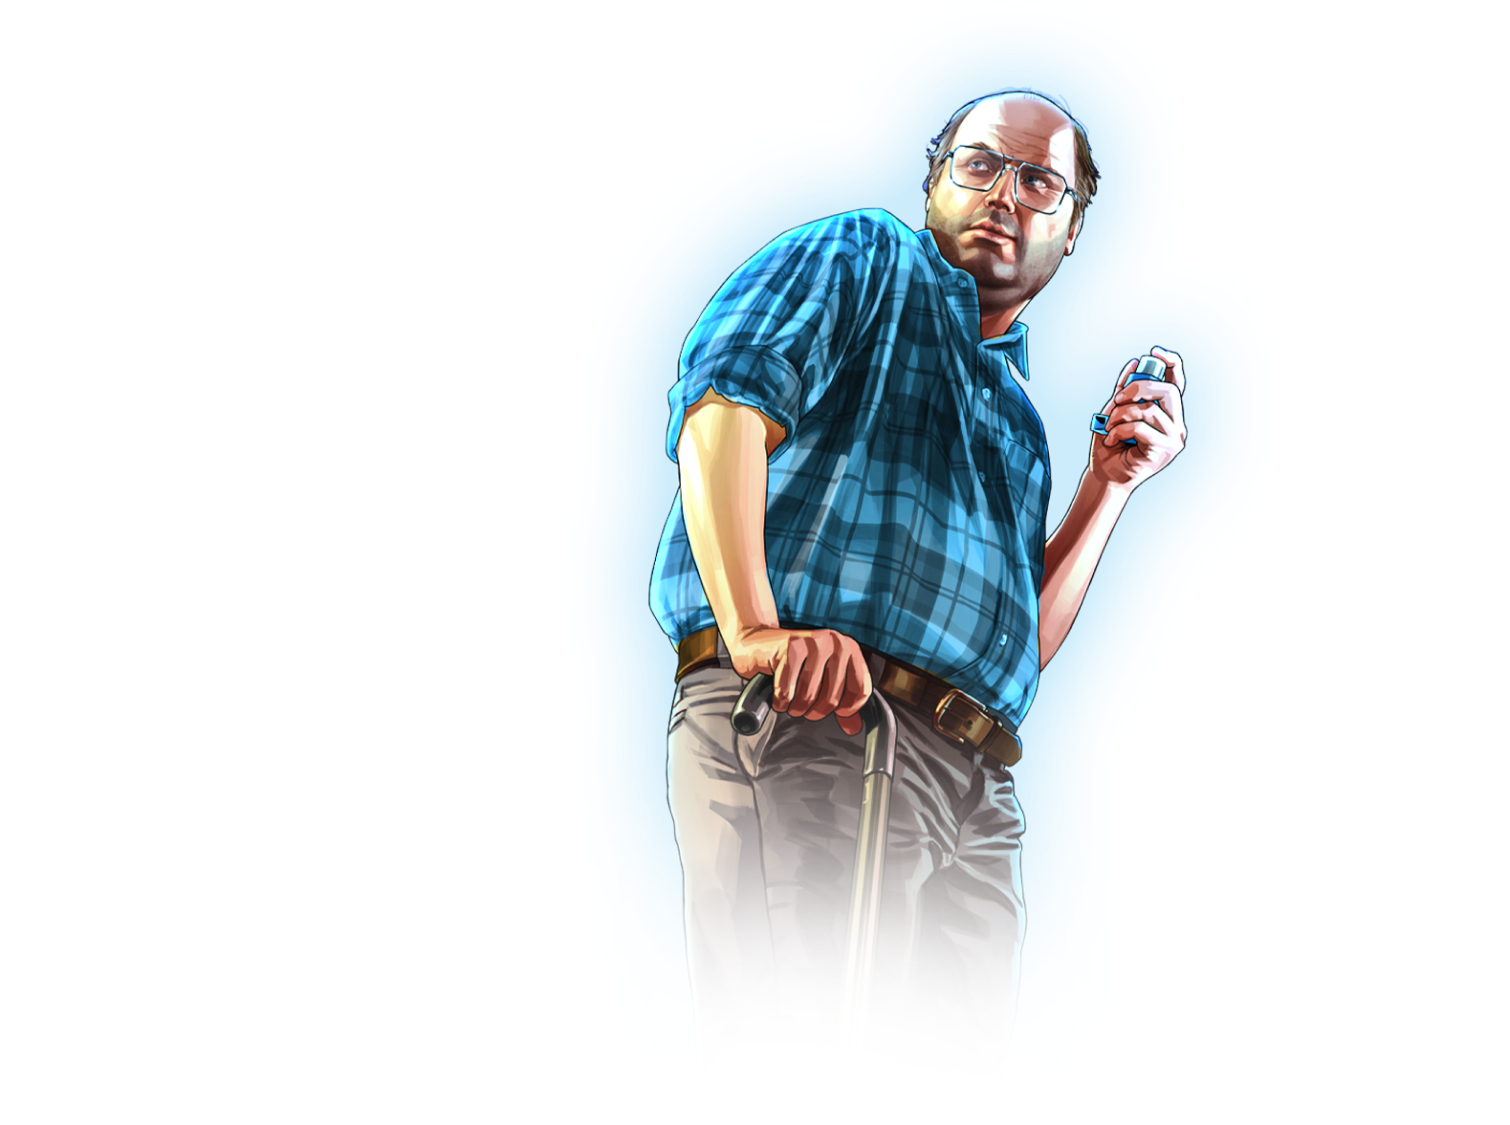
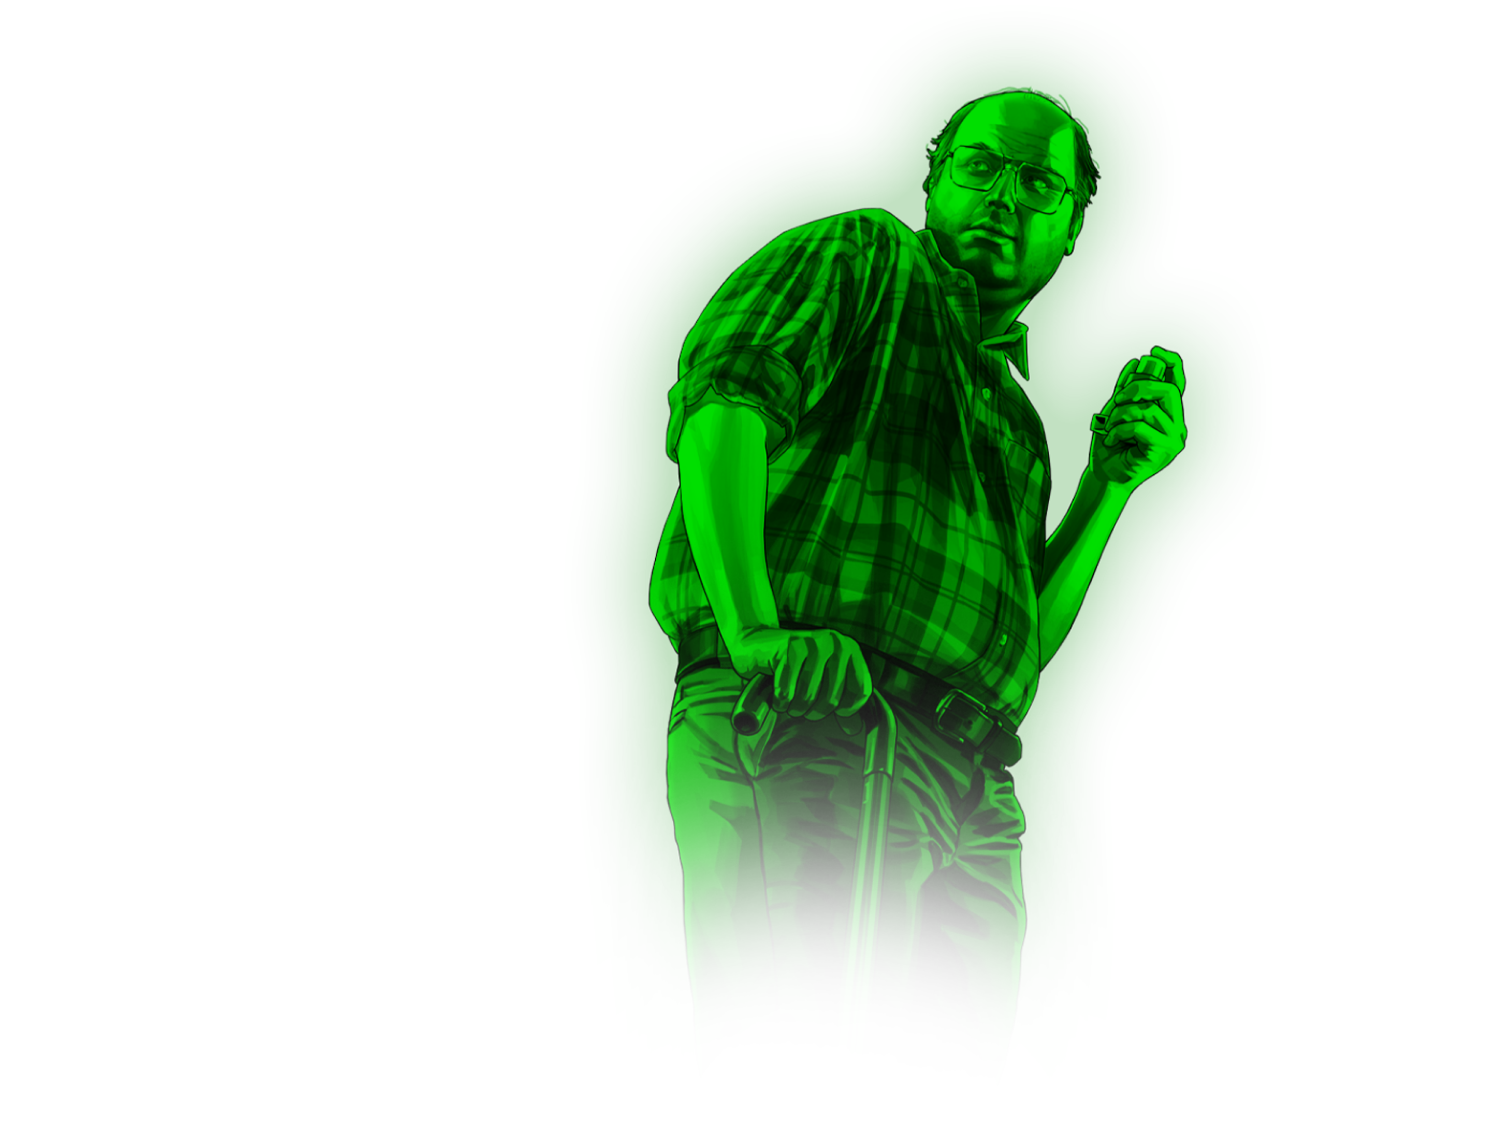
gagagaga

Changed region(s): [[0.4046, 0.0622, 0.8093, 0.8711]]

diff --git a/style.css b/style.css
@@ -37,36 +37,23 @@ body {
     font-size: 1.0416666666666667vw;
     line-height: 1.25vw;
     color: #FFFFFF;
-    left: 25%;
+    left: 29%;
     top: 7%;
     text-decoration: none;
 }
 
 #home:hover {
-    color: #0084ff;
+    color: #2cd71a;
 }
 
 #homestrich {
     position: absolute;
     width: 2.3681377825618943vh;
     height: 0.10416666666666667vw;
-    background: #0084FF;
-    box-shadow: 0wv 0wv 0.15625vw #6DB9FF;
+    background: #2cd71a;
+    box-shadow: 0wv 0wv 0.15625vw #69f959;
     top: 10%;
-    left: 25.5%;
-}
-
-#forum {
-    position: absolute;
-    font-family: 'Akrobat Light', sans-serif;
-    font-style: normal;
-    font-weight: 400;
-    font-size: 1.0416666666666667vw;
-    line-height: 1.25vw;
-    color: #FFFFFF;
-    left: 40%;
-    top: 7%;
-    text-decoration: none;
+    left: 29.5%;
 }
 
 #copyright {
@@ -82,27 +69,6 @@ body {
     text-decoration: none;
 }
 
-#forum:hover {
-    color: #0084ff;
-}
-
-#shop {
-    position: absolute;
-    font-family: 'Akrobat Light', sans-serif;
-    font-style: normal;
-    font-weight: 400;
-    font-size: 1.0416666666666667vw;
-    line-height: 1.25vw;
-    color: #FFFFFF;
-    left: 55%;
-    top: 7%;
-    text-decoration: none;
-}
-
-#shop:hover {
-    color: #0084ff;
-}
-
 #regelwerk {
     position: absolute;
     font-family: 'Akrobat Light', sans-serif;
@@ -111,13 +77,13 @@ body {
     font-size: 1.0416666666666667vw;
     line-height: 1.25vw;
     color: #FFFFFF;
-    left: 70%;
+    left: 54.5%;
     top: 7%;
     text-decoration: none;
 }
 
 #regelwerk:hover {
-    color: #0084ff;
+    color: #2cd71a;
 }
 
 #dc {
@@ -134,7 +100,7 @@ body {
 }
 
 #dc:hover {
-    color: #0084ff;
+    color: #2cd71a;
 }
 
 #brezelrp {
@@ -143,7 +109,7 @@ body {
     font-weight: 700;
     font-size: 3.125vw;
     line-height: 2.5vw;
-    color: #0084FF;
+    color: #2cd71a;
 }
 
 #brezelrpweiß {
@@ -218,7 +184,7 @@ body {
 
 #playtext {
     position: absolute;
-    left: 40%;
+    left: 30%;
     top: 30%;
     font-family: 'Akrobat Light', sans-serif;
     font-style: normal;
@@ -245,7 +211,7 @@ body {
     font-weight: 500;
     font-size: 1.5416666666666667vw;
     line-height: 1.5625vw;
-    color: #0084FF;
+    color: #2cd71a;
     top: 5.4%;
     left: 9%;
 }
@@ -262,8 +228,8 @@ body {
     position: absolute;
     width: 44.13347685683531vh;
     height: 4.583333333333333vw;
-    background: rgba(0, 132, 255, 0.8);
-    box-shadow: 0vw 0vw 0.2604166666666667vw #65C7FF;
+    background: #69f959;
+    box-shadow: 0vw 0vw 0.2604166666666667vw #69f959;
     border-radius: 0.2604166666666667vw;
     text-align: center;
     top: 80%;
@@ -278,7 +244,6 @@ body {
 }
 
 #play:after {
-    content: '▶';
     font-family: 'Akrobat Light', sans-serif;
     font-style: normal;
     font-weight: 300;
@@ -332,7 +297,7 @@ body {
         font-weight: 500;
         font-size: 8.0416666666666667vw;
         line-height: 8.5625vw;
-        color: #0084FF;
+        color: #2cd71a;
         top: 2%;
         left: 40%;
     }
@@ -351,7 +316,7 @@ body {
         font-weight: 700;
         font-size: 8.125vw;
         line-height: 2.5vw;
-        color: #0084FF;
+        color: #2cd71a;
         position: absolute;
         left: 12.5%;
     }
@@ -428,8 +393,8 @@ body {
         position: absolute;
         width: 24.13347685683531vh;
         height: 10.583333333333333vw;
-        background: rgba(0, 132, 255, 0.8);
-        box-shadow: 0vw 0vw 0.2604166666666667vw #65C7FF;
+        background: #69f959;
+        box-shadow: 0vw 0vw 0.2604166666666667vw #69f959;
         border-radius: 0.2604166666666667vw;
         text-align: center;
         top: 80%;

diff --git a/index.html b/index.html
@@ -1,4 +1,5 @@
 <!DOCTYPE html>
+
 <head>
     <meta charset="utf-8" />
     <meta name="viewport" content="width=device-width, initial-scale=1.0">
@@ -11,29 +12,27 @@
 
 <div id="obenlinks">
     <div><img id="logo" src="img/logo.png"></img></div>
-    <div id="logotext">AlmereRP <span id="logotext2">SERVICES</span></div>
+    <div id="logotext">AlmereRP</div>
 </div>
 <div id="strich1"></div>
 <div id="nav">
     <div><a href="https://google.com" id="home">HOME</a></div>
     <div id="homestrich"></div>
-    <div><a href="https://google.com" id="forum">FORUM</a></div>
-    <div><a href="https://google.com" id="shop">SHOP</a></div>
-    <div><a href="https://google.com" id="regelwerk">REGELN</a></div>
-    <div><a href="https://google.com" id="dc">DISCORD</a></div>
+    <div><a href="/regels.html" id="regelwerk">REGELS</a></div>
+    <div><a href="https://discord.gg/yy29B6yPRR" id="dc">DISCORD</a></div>
 </div>
 <div id="textbox">
-    <div id="brezelrp">BREZEL<span id="brezelrpweiß">ROLEPLAY</span></div>
+    <div id="brezelrp">ALMERE<span id="brezelrpweiß">ROLEPLAY</span></div>
     <div id="serverinfo">SERVER INFO</div>
-    <div id="serverinfotext">Lorem ipsum dolor sit amet, consectetur adipiscing elit. Nunc vulputate libero et velit
-        interdum, ac aliquet odio mattis. Class aptent taciti sociosqu ad litora torquent per conubia nostra, per
-        inceptos himenaeos. Curabitur tempus urna at turpis condimentum lobortis.</div>
+    <div id="serverinfotext">Welkom terug van een oud bestaan. <br>Wordt jij een staats lieveling of juist niet...<br>De
+        meester van de voedsel keten of de straten...<br>Strooi jij met 50jes of 5jes...<br>Ik denk dat jij dat maar op
+        1 manier achter kunt komen </div>
     <div id="serverextra">SERVER HISTORY</div>
     <div id="serverextratext">Lorem ipsum dolor sit amet, consectetur adipiscing elit. Nunc vulputate libero et velit
         interdum, ac aliquet odio mattis.<br>br>Class aptent taciti sociosqu ad litora torquent per conubia nostra, per
         inceptos himenaeos. Curabitur tempus urna at turpis condimentum lobortis.</div>
 </div>
-<div><a href="https://google.com" id="play"><span id="playtext">PLAY</span></a></div>
+<div><a href="fivem://connect/vybmmr" id="play"><span id="playtext">Fivem Connect</span></a></div>
 <div><img id="lester" src="img/lester.png"></img></div>
 <div><img id="lester_mobile" src="img/lester_mobile.png"></img></div>
 <div id="copyright">Copyright © by AIPaskie</div>
